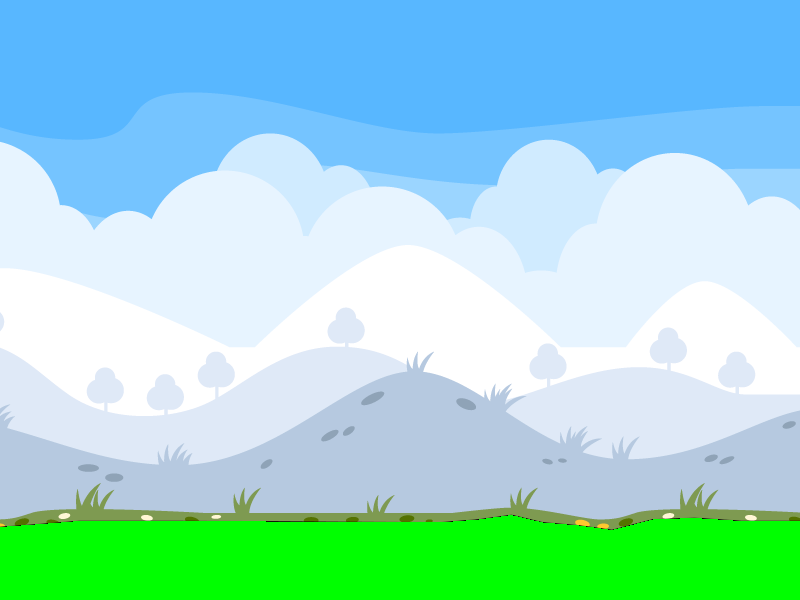
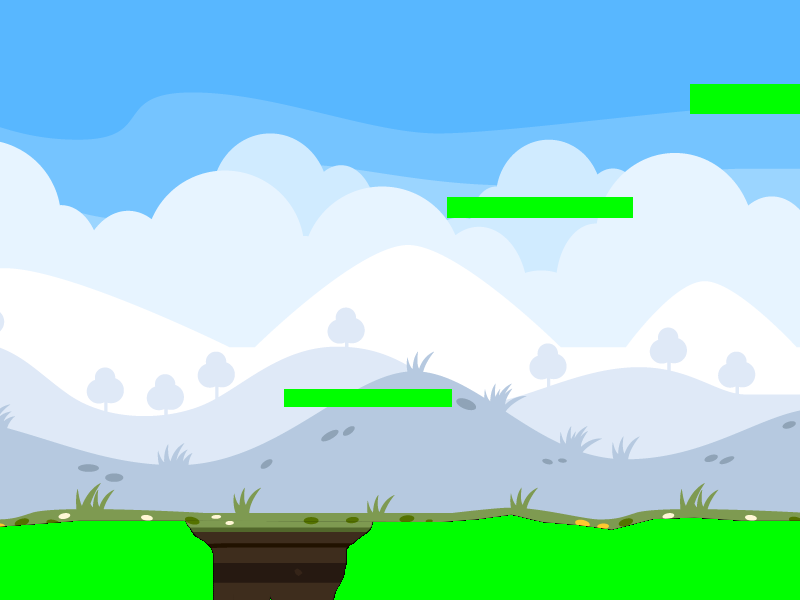
character cant leave the screen anymore

diff --git a/src/helpingFuntions.py b/src/helpingFuntions.py
@@ -78,6 +78,64 @@ def pic_to_sprite_group_rec(pic):
     return sprite_group
 
 
+def add_surrounding_sprites(picture):
+    """Returns 4 sprites surrounding the picture in a group."""
+    sprite_group = pygame.sprite.Group()
+    image = Image.open(picture)
+
+    color = c.OBSTACLE  # needs to be 4D including alpha for transparency
+
+    top_sprite = pygame.sprite.Sprite()
+    # create rectangle in correct proportions, 50 over at each side, 50 top
+    top_sprite.image = pygame.Surface([image.size[0] + 100, 50])
+    top_sprite.image.set_alpha(color[3])
+    # Draw the obstacle (a rectangle!) on the surface
+    pygame.draw.rect(top_sprite.image, color, [0, 0, image.size[0]+100, 50])
+    # Fetch the rectangle object that has the dimensions of the image.
+    top_sprite.rect = top_sprite.image.get_rect()
+    top_sprite.rect.x = -50
+    top_sprite.rect.y = -50
+
+    bottom_sprite = pygame.sprite.Sprite()
+    # create rectangle in correct proportions, 50 over at each side, 50 bottom
+    bottom_sprite.image = pygame.Surface([image.size[0] + 100, 50])
+    bottom_sprite.image.set_alpha(color[3])
+    # Draw the obstacle (a rectangle!) on the surface
+    pygame.draw.rect(bottom_sprite.image, color, [0, 0, image.size[0]+100, 50])
+    # Fetch the rectangle object that has the dimensions of the image.
+    bottom_sprite.rect = bottom_sprite.image.get_rect()
+    bottom_sprite.rect.x = -50
+    bottom_sprite.rect.y = image.size[1]
+
+    right_sprite = pygame.sprite.Sprite()
+    # create rectangle in correct proportions, 50 over at each side, 50 right
+    right_sprite.image = pygame.Surface([50, image.size[1] + 100])
+    right_sprite.image.set_alpha(color[3])
+    # Draw the obstacle (a rectangle!) on the surface
+    pygame.draw.rect(right_sprite.image, color, [0, 0, 50, image.size[1]+100])
+    # Fetch the rectangle object that has the dimensions of the image.
+    right_sprite.rect = right_sprite.image.get_rect()
+    right_sprite.rect.x = image.size[0]
+    right_sprite.rect.y = -50
+
+    left_sprite = pygame.sprite.Sprite()
+    # create rectangle in correct proportions, 50 over at each side, 50 left
+    left_sprite.image = pygame.Surface([50, image.size[1] + 100])
+    left_sprite.image.set_alpha(color[3])
+    # Draw the obstacle (a rectangle!) on the surface
+    pygame.draw.rect(left_sprite.image, color, [0, 0, 50, image.size[1]+1000])
+    # Fetch the rectangle object that has the dimensions of the image.
+    left_sprite.rect = left_sprite.image.get_rect()
+    left_sprite.rect.x = -50
+    left_sprite.rect.y = -50
+
+    sprite_group.add(top_sprite)
+    sprite_group.add(bottom_sprite)
+    sprite_group.add(left_sprite)
+    sprite_group.add(right_sprite)
+    return sprite_group
+
+
 def pic_to_sprite_group(picture):
     """Takes a picture and finds all black pixels.
     Collects them in a sprite group and returns it"""
@@ -88,7 +146,14 @@ def pic_to_sprite_group(picture):
         pic_path = name + "_temp" + extension
         pic.save(pic_path)
         sprite_group.add(pic_to_sprite_group_rec(pic_path))
+        # make a big surrounding sprite
+        sprite_group.add(add_surrounding_sprites(picture))
     return sprite_group
+
+
+def shift_group_x(sprite_list, amount):
+    for sprite in sprite_list:
+        sprite.rect.x = sprite.rect.x + amount
 
 
 def list_in_tuple(list_in, tuple_in):

diff --git a/src/dwarf.py b/src/dwarf.py
@@ -65,17 +65,21 @@ class Dwarf(character.Character):
 
     def move(self, direction, pixels, screen_size):
         if direction == character.Direction.RIGHT:
-            if self.rect.x < screen_size[0] - self.walk_speed - self.rect.width:
+            if self.rect.x < screen_size[0] - self.walk_speed - self.rect.width - 100:
                 # going right and not at border
                 self.next_x = self.rect.x + self.walk_speed
+                return 0
             else:
-                self.next_x = screen_size[0] - self.rect.width
+                self.next_x = screen_size[0] - self.rect.width -100
+                return -self.walk_speed
         elif direction == character.Direction.LEFT:
-            if self.rect.x > 0 + self.walk_speed:
+            if self.rect.x > 0 + self.walk_speed + 100:
                 # going left and not at border
                 self.next_x = self.rect.x - self.walk_speed
+                return 0
             else:
-                self.next_x = 0
+                self.next_x = 100
+                return self.walk_speed
 
     def jump(self):
         if self.remaining_jumps > 0:

diff --git a/src/main.py b/src/main.py
@@ -42,7 +42,7 @@ player_character.rect.y = 470
 
 # create the enemy
 enemy_1 = dwarf.Dwarf()
-enemy_1.rect.x = 650
+enemy_1.rect.x = 450
 enemy_1.rect.y = 470
 
 # load a background in a sprite group
@@ -88,11 +88,17 @@ while carry_on:
             pass
 
     keys = pygame.key.get_pressed()
+    world_shift = 0  # amount, the world has to be shifted for movement
     if game_running:
         if hF.list_in_tuple(left_keys, keys):
-            player_character.move(character.Direction.LEFT, 5, size)
+            world_shift = player_character.move(character.Direction.LEFT, 5, size)
         if hF.list_in_tuple(right_keys, keys):
-            player_character.move(character.Direction.RIGHT, 5, size)
+            world_shift = player_character.move(character.Direction.RIGHT, 5, size)
+    # shift the world
+    if not world_shift == 0:
+        back_ground.shift(world_shift)
+        hF.shift_group_x(obstacles.sprites(), world_shift)
+        hF.shift_group_x(all_sprites.sprites(), world_shift)
 
     collision_list = pygame.sprite.spritecollide(player_character, enemies, False)
 

diff --git a/src/character.py b/src/character.py
@@ -40,7 +40,8 @@ class Character(ABC, pygame.sprite.Sprite):
     @abstractmethod
     def move(self, direction, pixels, screen_size):
         """Moves the sprite pixels to the direction (enum), if he doesn't leave the screen.
-        Else stays where he is."""
+        Else stays where he is.
+        Returns, how much the world is to be shifted"""
         pass
 
     @abstractmethod

diff --git a/src/background.py b/src/background.py
@@ -22,3 +22,6 @@ class Background(pygame.sprite.Sprite):
         self.image = pygame.image.load(image_file)
         self.rect = self.image.get_rect()
         self.rect.left, self.rect.top = location
+
+    def shift(self, amount):
+        self.rect.x += amount
